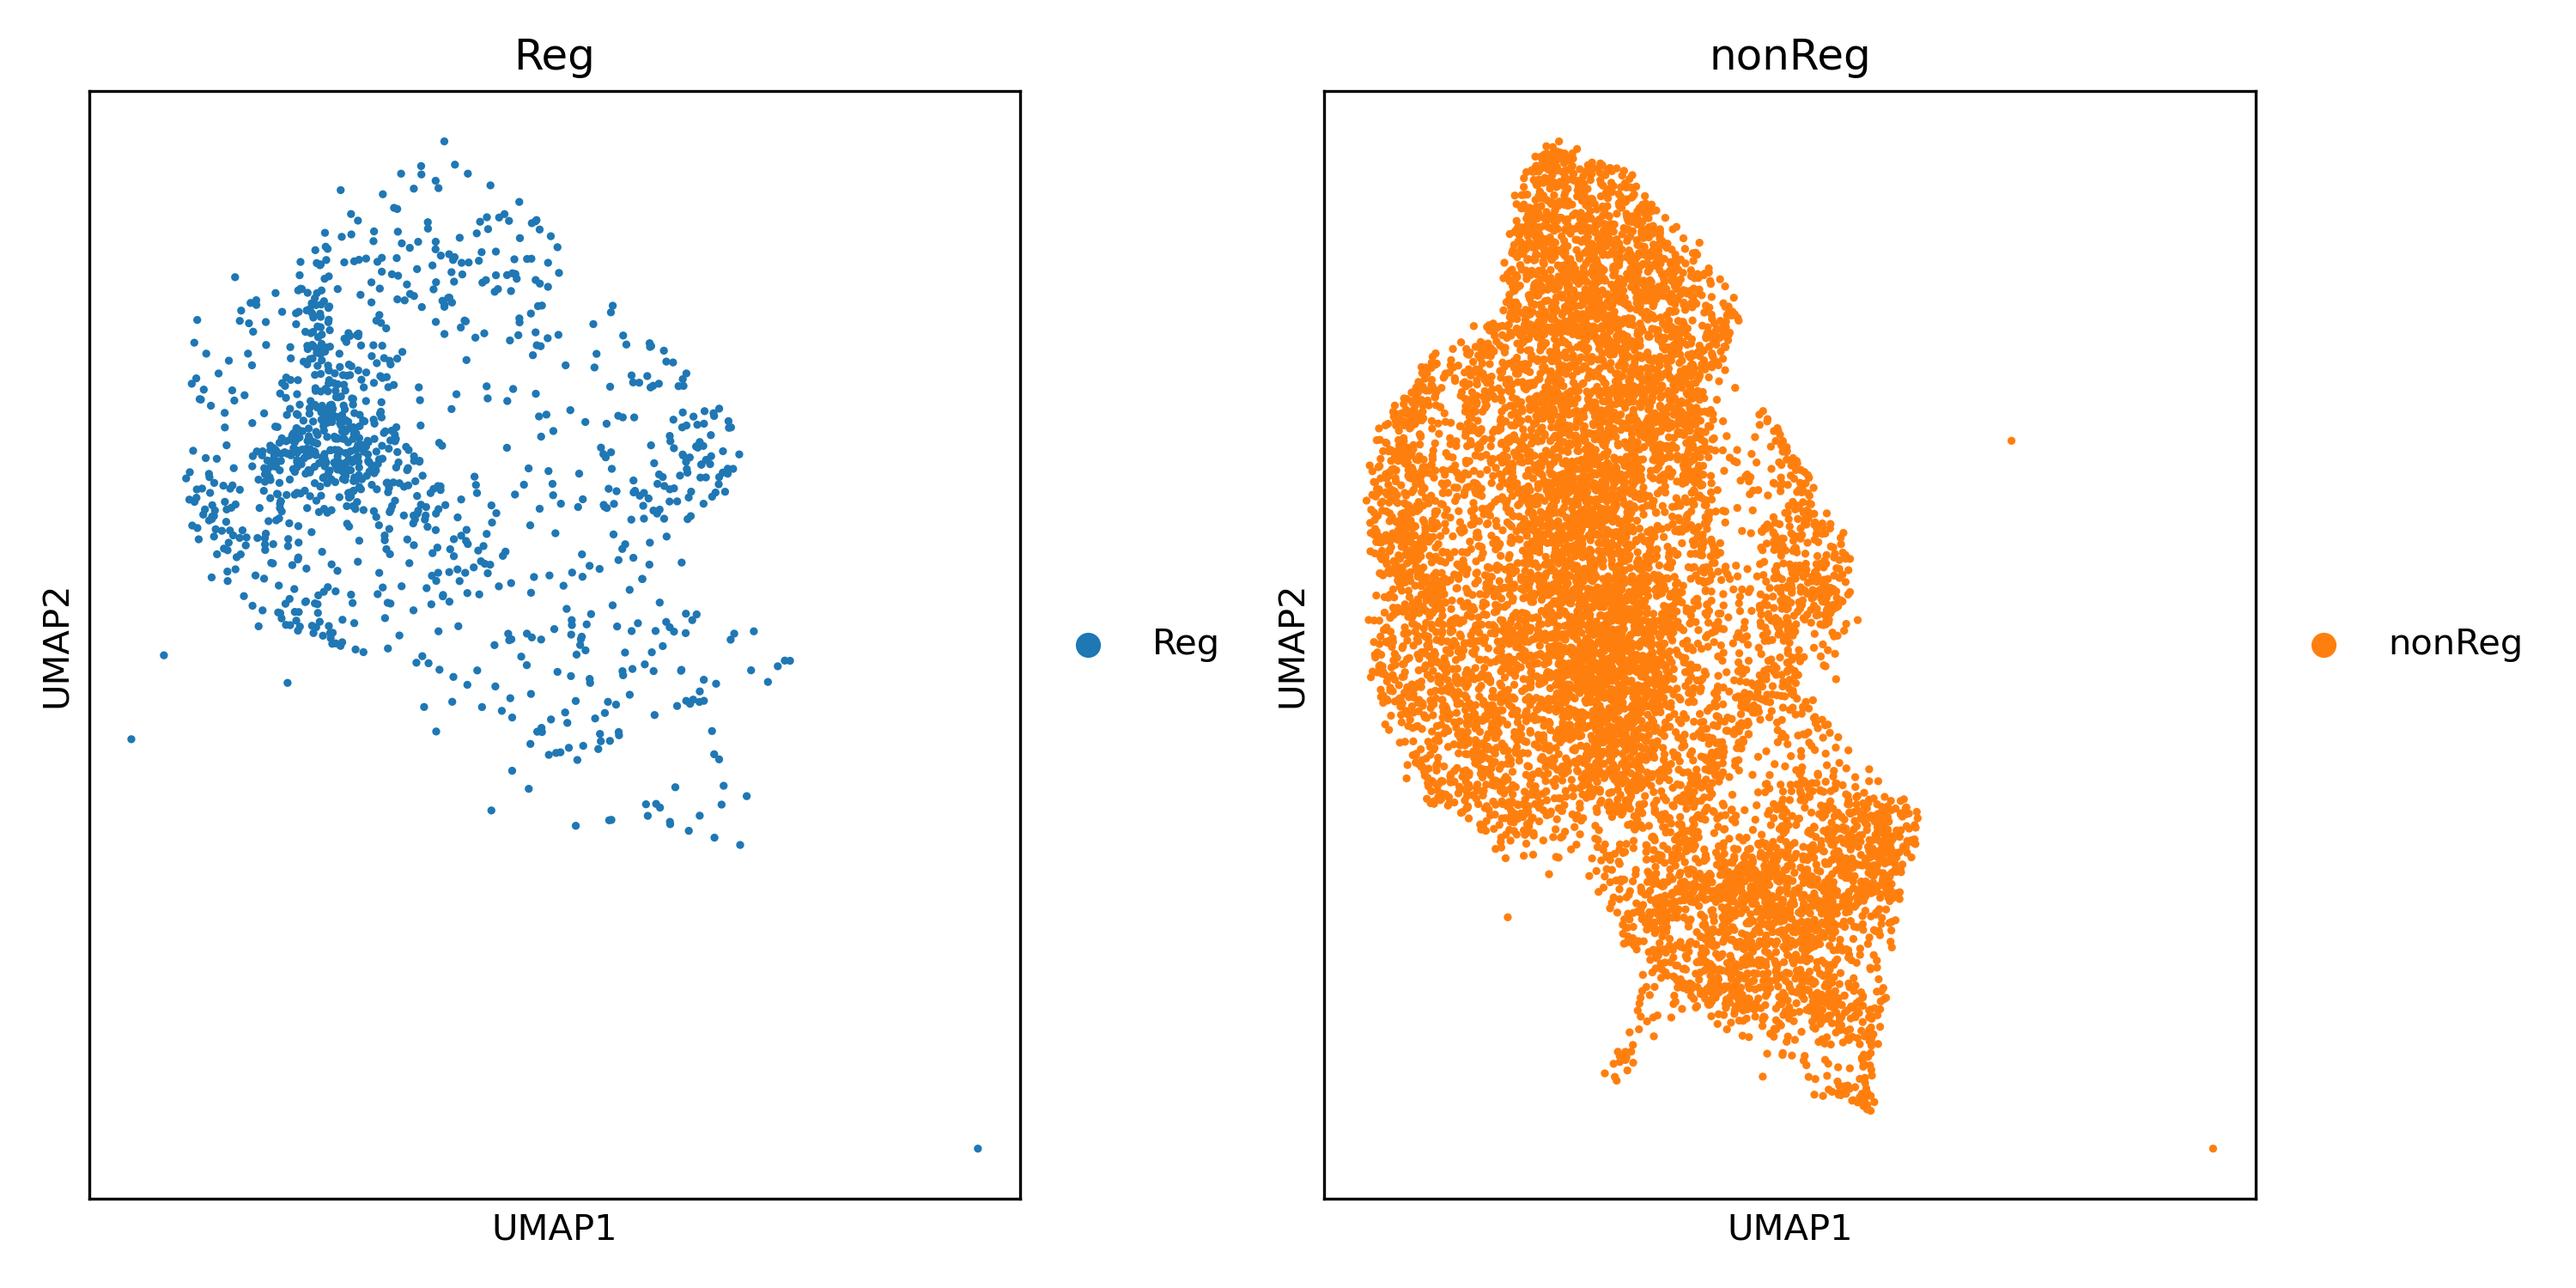
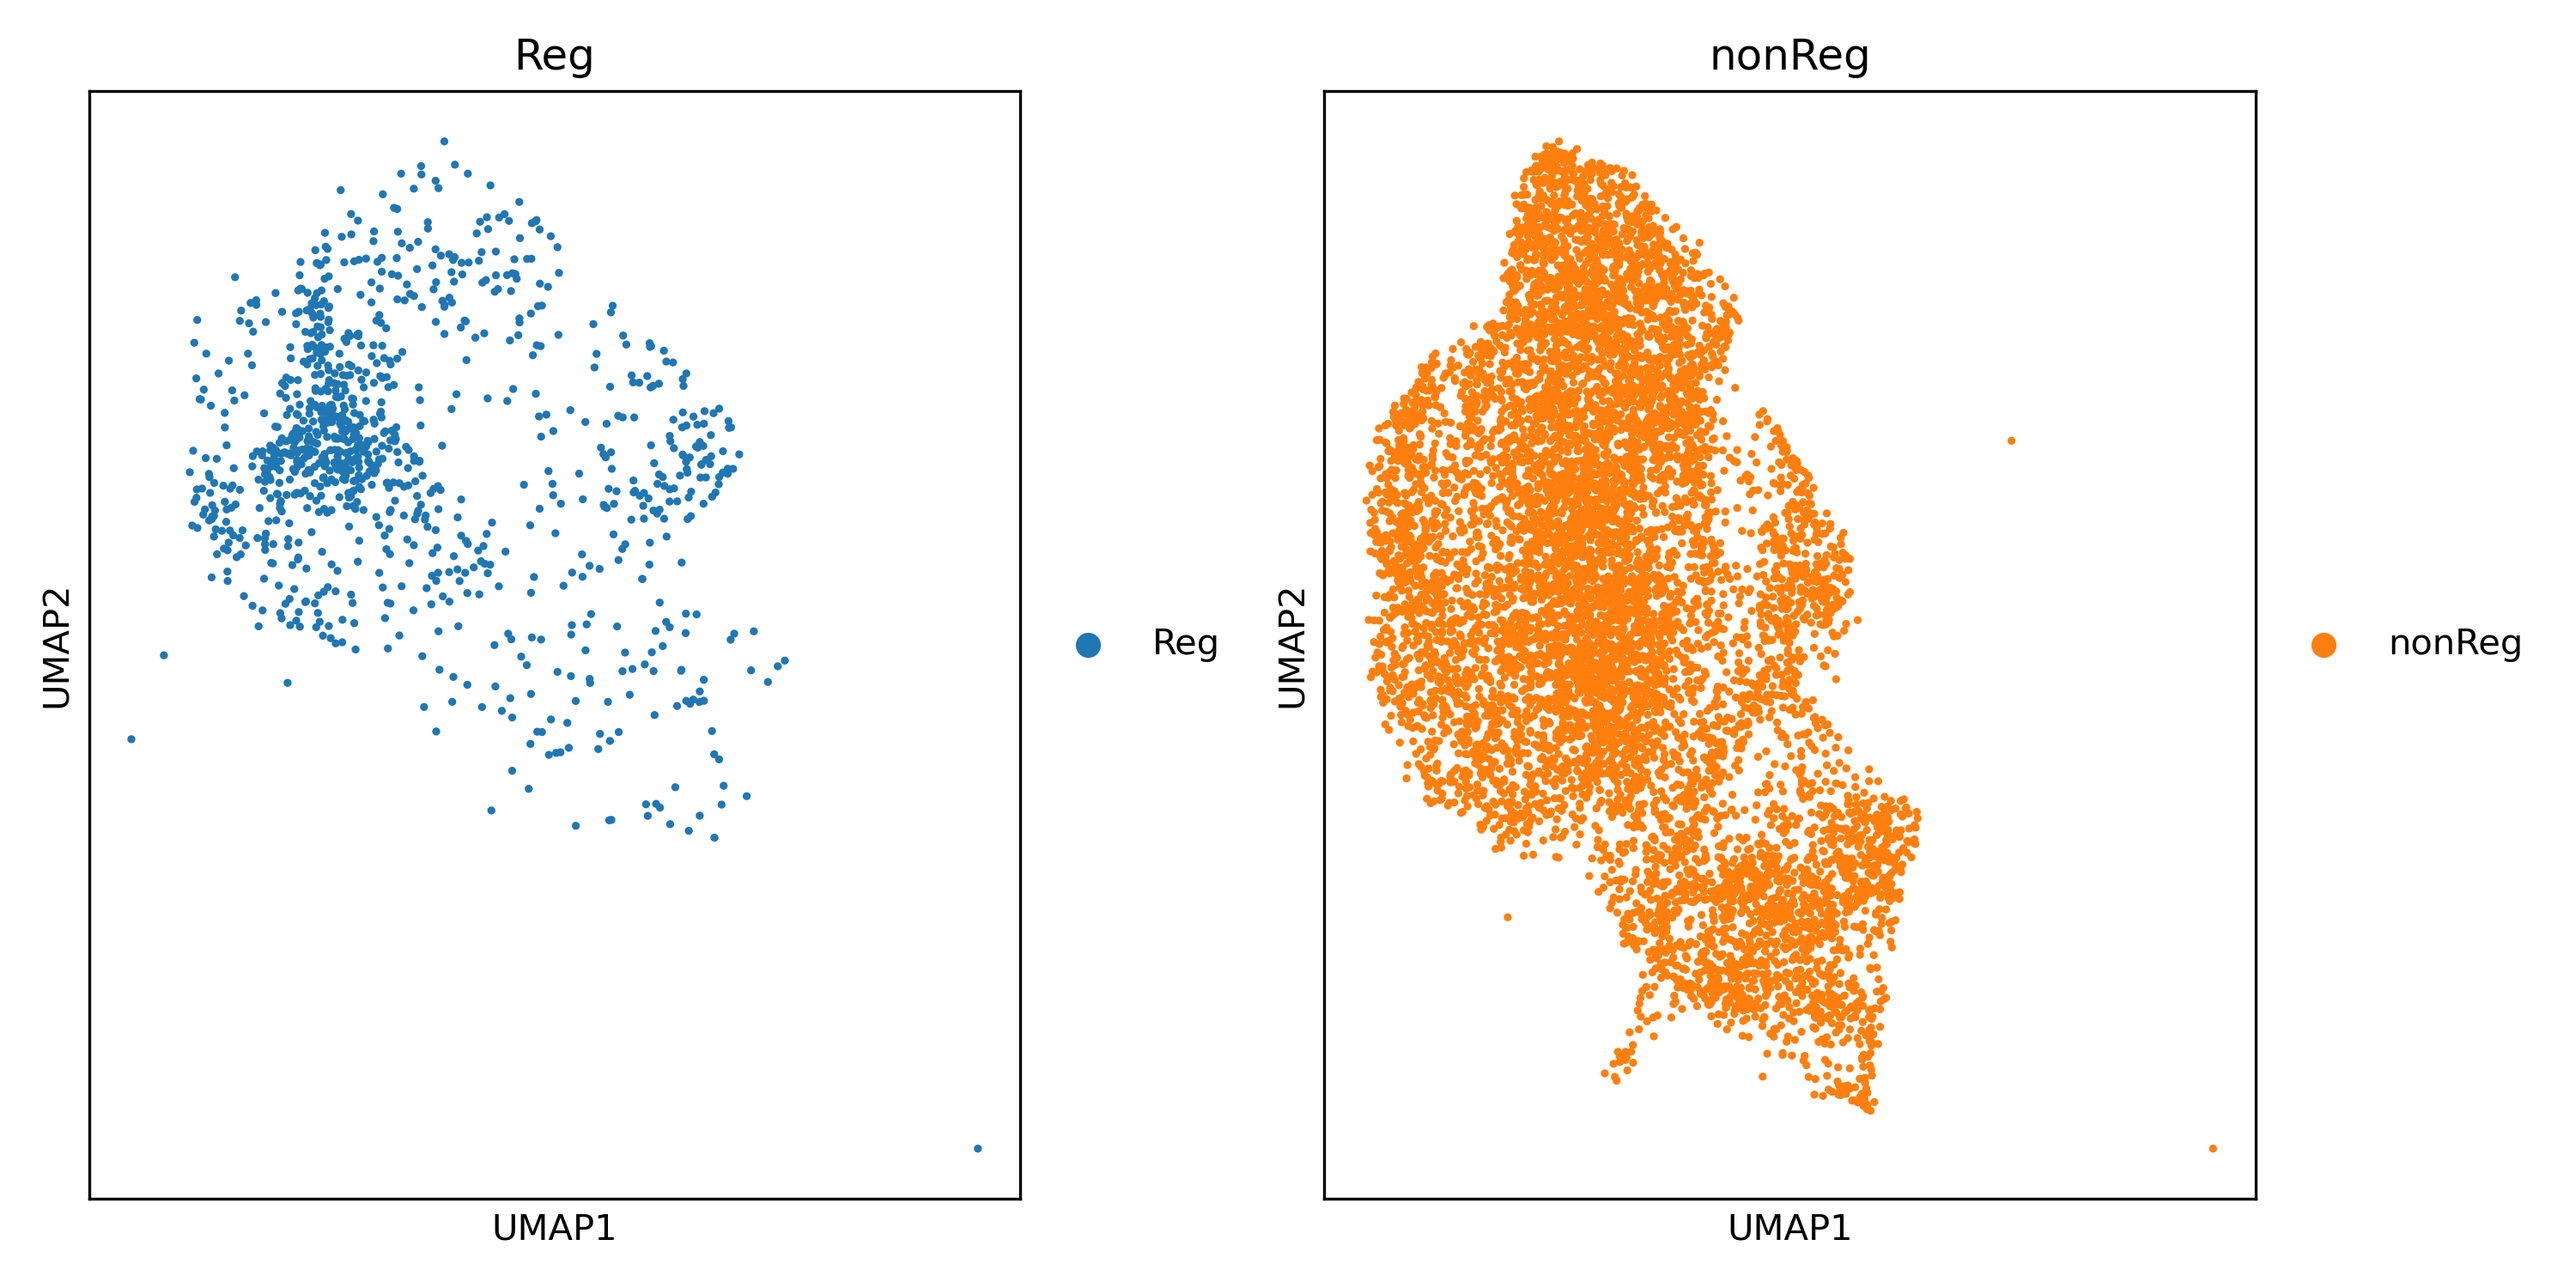
Update Osterosarcoma umaps after decontamination

diff --git a/README.md b/README.md
@@ -353,21 +353,19 @@ We decontaminate the Osteosarcoma population by removing cells that express Cdkn
 
 - We subset Osteosarcoma, below is a summary: 
 
-| Metric   | Value  |
-|----------|--------|
-| Cells    | 10,173 |
-| Genes    | 27,808 |
+| Metric  | Value |
+|---------|------:|
+| Cells   | 9,259 |
+| Genes   | 27,808 |
 
-**Samples**
+| Sample  | Count |
+|---------|------:|
+| nonReg  | 8,226 |
+| Reg     | 1,033 |
 
-| Type   | Count |
-|--------|------:|
-| nonReg | 9,034 |
-| Reg    | 1,139 |
+![](figures/Osteosarcoma_umap.png?v=2)
 
-![](figures/Osteosarcoma_umap.png?v=1)
-
-![](figures/Osteosarcoma_perSample_umap.png?v=1)
+![](figures/Osteosarcoma_perSample_umap.png?v=2)
 
 
 ### Differential gene expression in Osteosarcoma 
